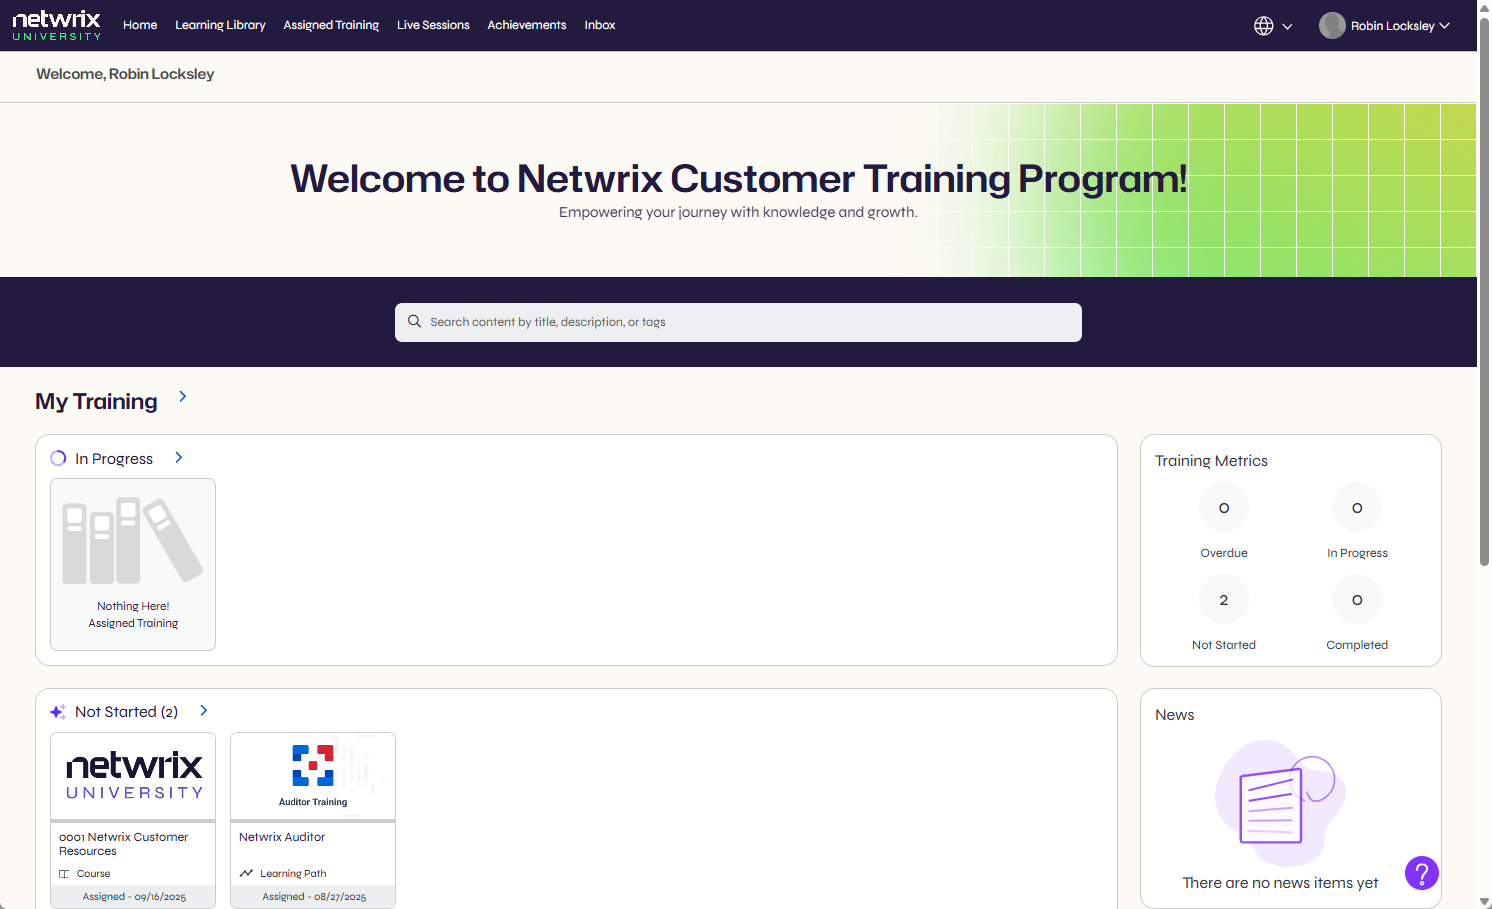
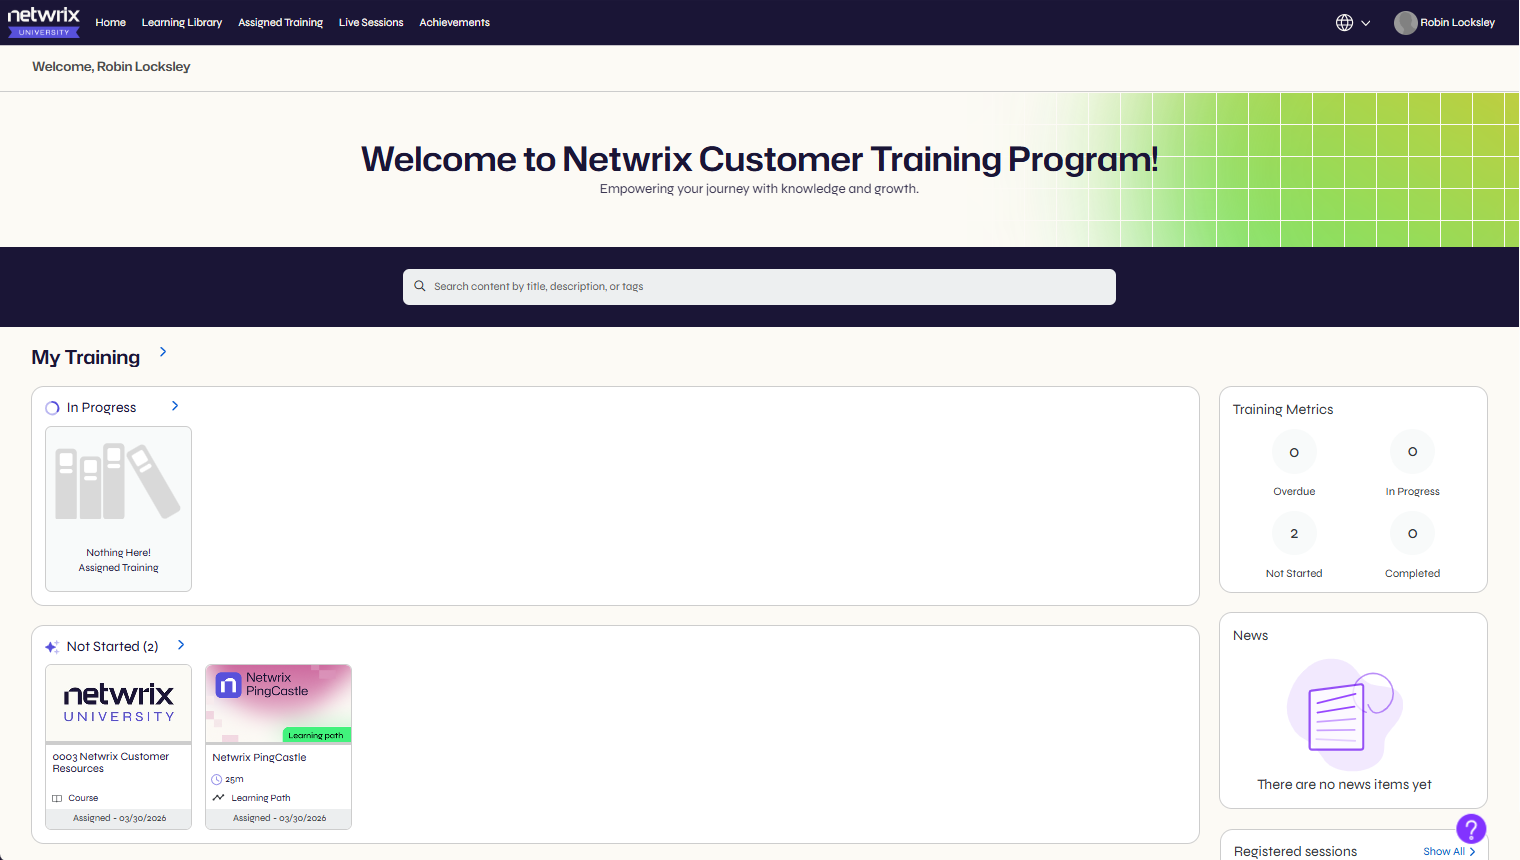
Updated Netwrix Univesity for Customers image and Customer Resources … (#680)
* Updated Netwrix Univesity for Customers image and Customer Resources course number. Also fixed typo in NPC.

* fix(dale): auto-fix documentation issues (AI-assisted)

---------

diff --git a/docs/customer/training/index.md b/docs/customer/training/index.md
@@ -9,7 +9,7 @@ description: "Learn about Netwrix University for Customers, courses you are enro
 import { Company } from '@site/src/training/products';
 
 
-<Company /> offers training to customers in <Company /> University accessible through the <Company /> Customer Portal. See the [Customer Portal Access](../portal/index.md) topic for additional information on how to register for an account.
+<Company /> offers training to customers in <Company /> University accessible through the <Company /> Customer Portal. See [Customer Portal Access](../portal/index.md) for information on registering for an account.
 
 Courses are organized by learning paths aligned to what you have purchased. You are automatically enrolled in content for those products. The learning path will be visible on your dashboard.
 
@@ -17,7 +17,7 @@ Courses are organized by learning paths aligned to what you have purchased. You 
 
 You can choose to self-enroll in "Learn About" learning paths available within the Learning Library. You will also be enrolled in:
 
-* 0001 <Company /> Customer Resources – This course provides a brief overview of how to access and the various resources available to customers. Estimated length: 30 minutes.
+* 0003 <Company /> Customer Resources – This course provides a brief overview of how to access and the various resources available to customers. Estimated length: 30 minutes.
 
 See the following topics for details on all learning paths:
 

diff --git a/docs/partner/onboarding.md b/docs/partner/onboarding.md
@@ -15,7 +15,7 @@ The following kits are region-specific.
 
 The <Company /> Onboarding Kit for NAM and LATAM Partners includes:
 
-* 0001 <Company /> Customer Resources
+* 0003 <Company /> Customer Resources
 * AMER <Company /> Partner Program Overview
 * <Company /> Partner Portal Walkthrough
 * <Company /> Deal Registration Program
@@ -26,7 +26,7 @@ The <Company /> Onboarding Kit for NAM and LATAM Partners includes:
 
 The <Company /> Onboarding Kit for EMEA/APAC Partners includes:
 
-* 0001 <Company /> Customer Resources
+* 0003 <Company /> Customer Resources
 * EMEA <Company /> Partner Marketing To-Go Menu
 * EMEA <Company /> Partner Program Overview
 * EMEA/APAC <Company /> Partner Onboarding Guide Optional
@@ -37,6 +37,6 @@ The <Company /> Onboarding Kit for EMEA/APAC Partners includes:
 
 The <Company /> Onboarding Kit for MSP Partners includes:
 
-* 0001 <Company /> Customer Resources
+* 0003 <Company /> Customer Resources
 * MSP Billing Center Explainer
 * MSP Partner Portal Walkthrough

diff --git a/docs/customer/training/learn-about/pingcastle.md b/docs/customer/training/learn-about/pingcastle.md
@@ -12,7 +12,7 @@ import { Company, NPC } from '@site/src/training/products';
 
 Estimated length: 25 minutes
 
-In this learning path, you will be introduced to <NPC />. It contains the following courses:
+This learning path introduces you to <NPC />. It contains the following course:
 
 * 1680 <NPC /> – Valuable Features
 
